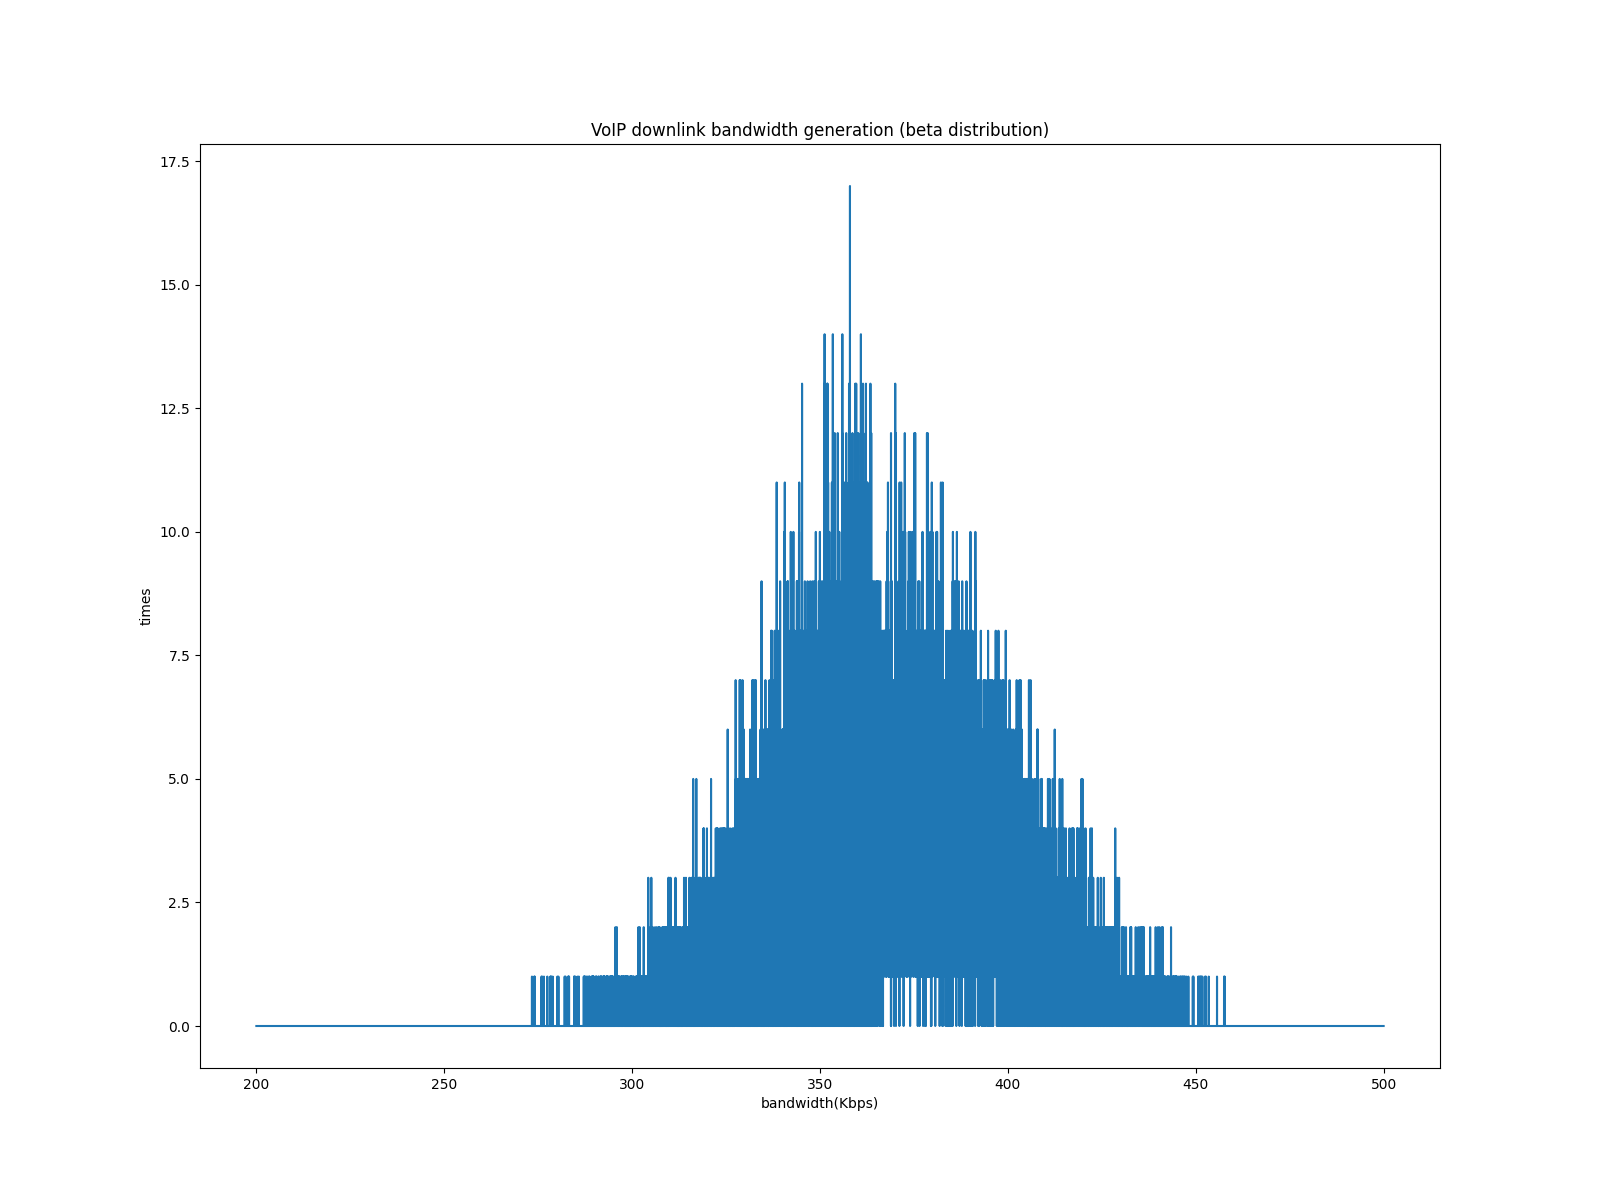
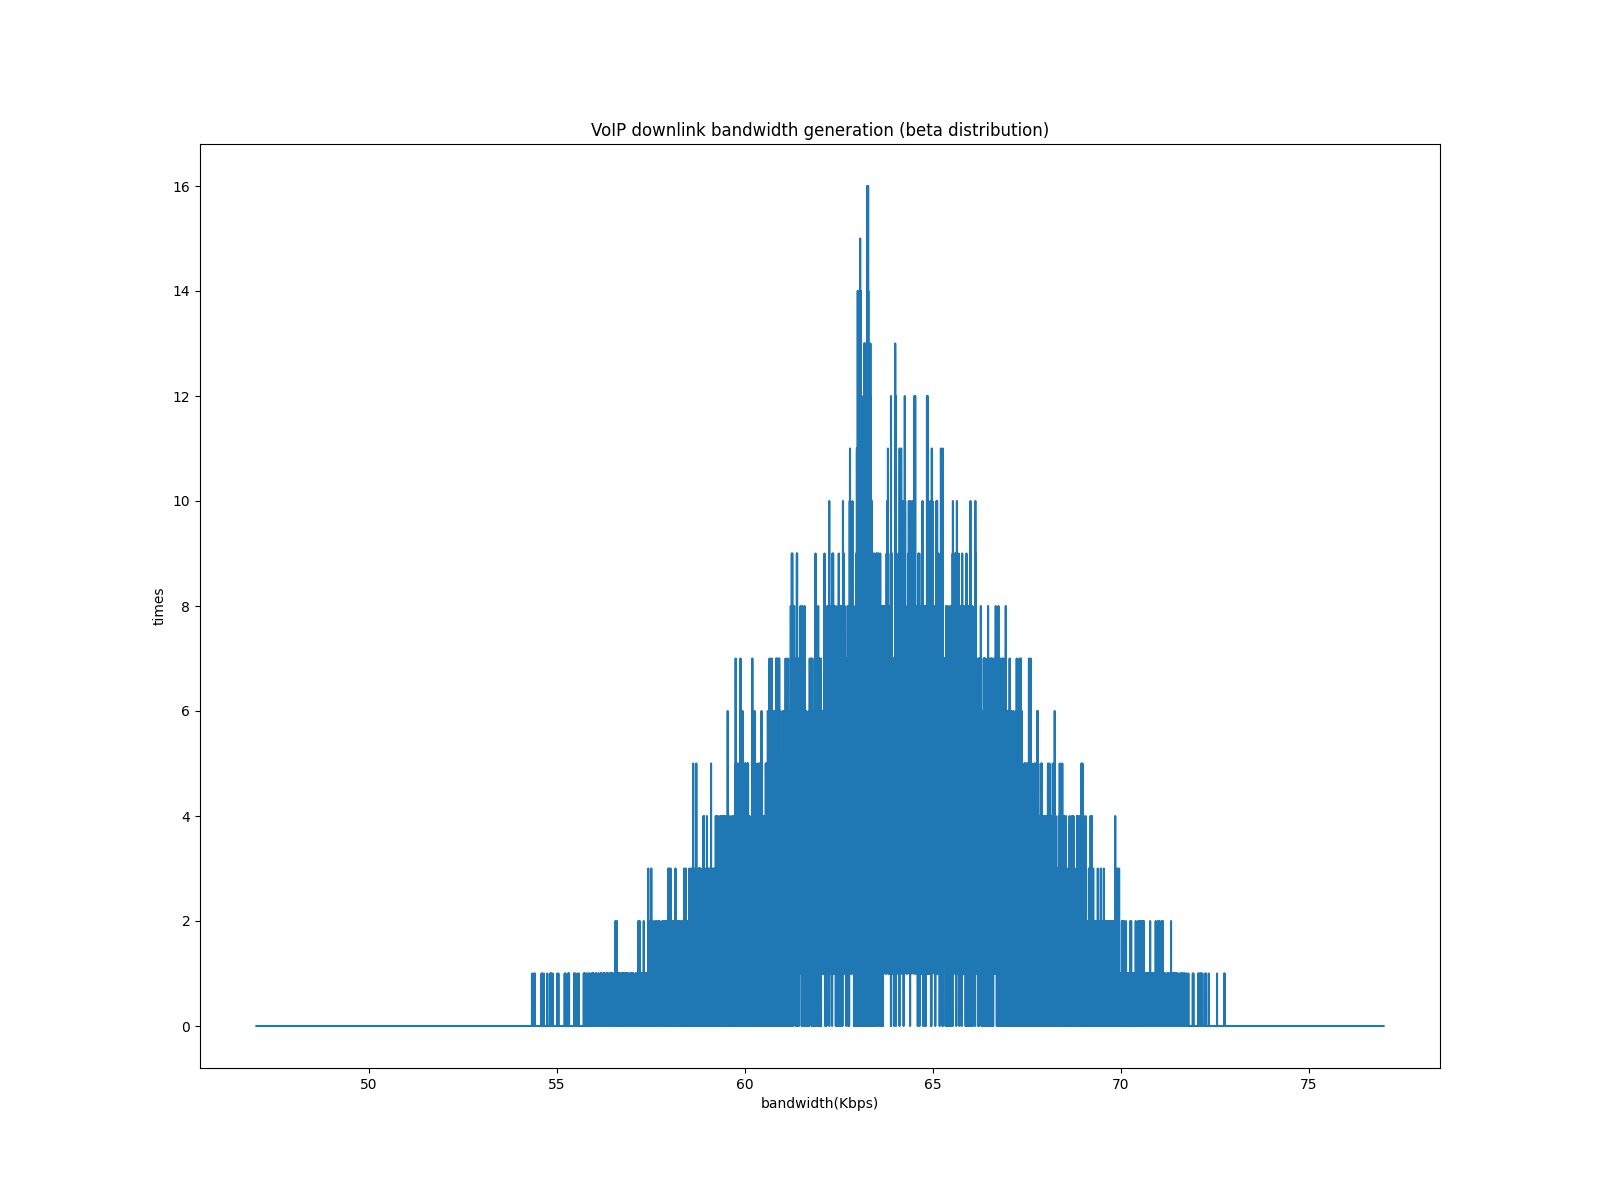
Change voip downlink bandwidth generator attribute.

diff --git a/data/parameters.py b/data/parameters.py
@@ -11,7 +11,7 @@ ipVideo_max_cpu = 0.4
 ftp_max_cpu = 0.3
 
 voip_bw_up_attr = (4, 4, 3, 15)
-voip_bw_down_attr = (17, 13, 300, 200)
+voip_bw_down_attr = (17, 13, 30, 47)
 ipVideo_bw_up_attr = (2, 4, 45, 5)
 ipVideo_bw_down_attr = (4, 4, 500, 700)
 ftp_bw_up_attr = (5, 3, 40, 10)
